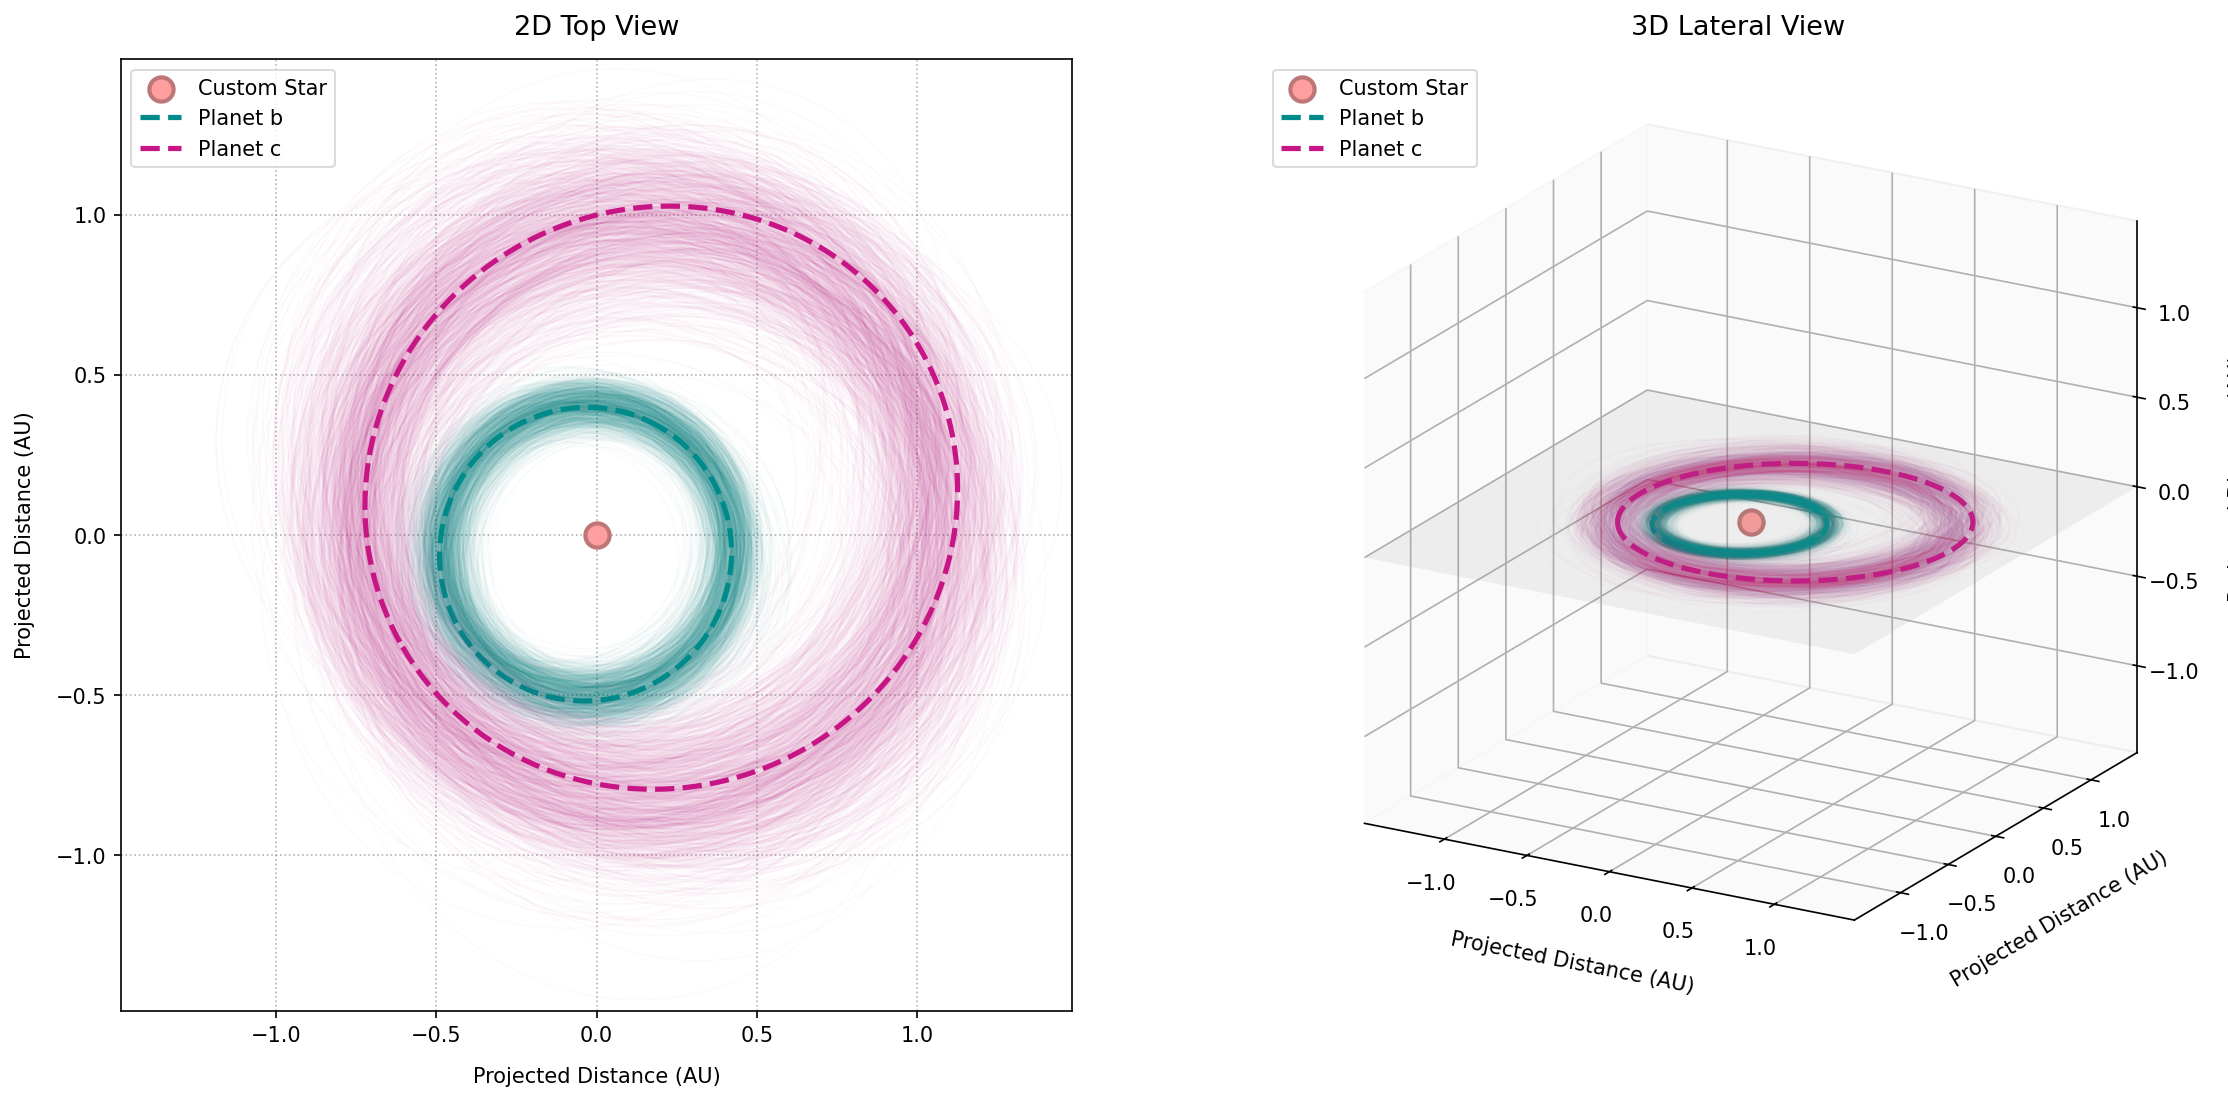
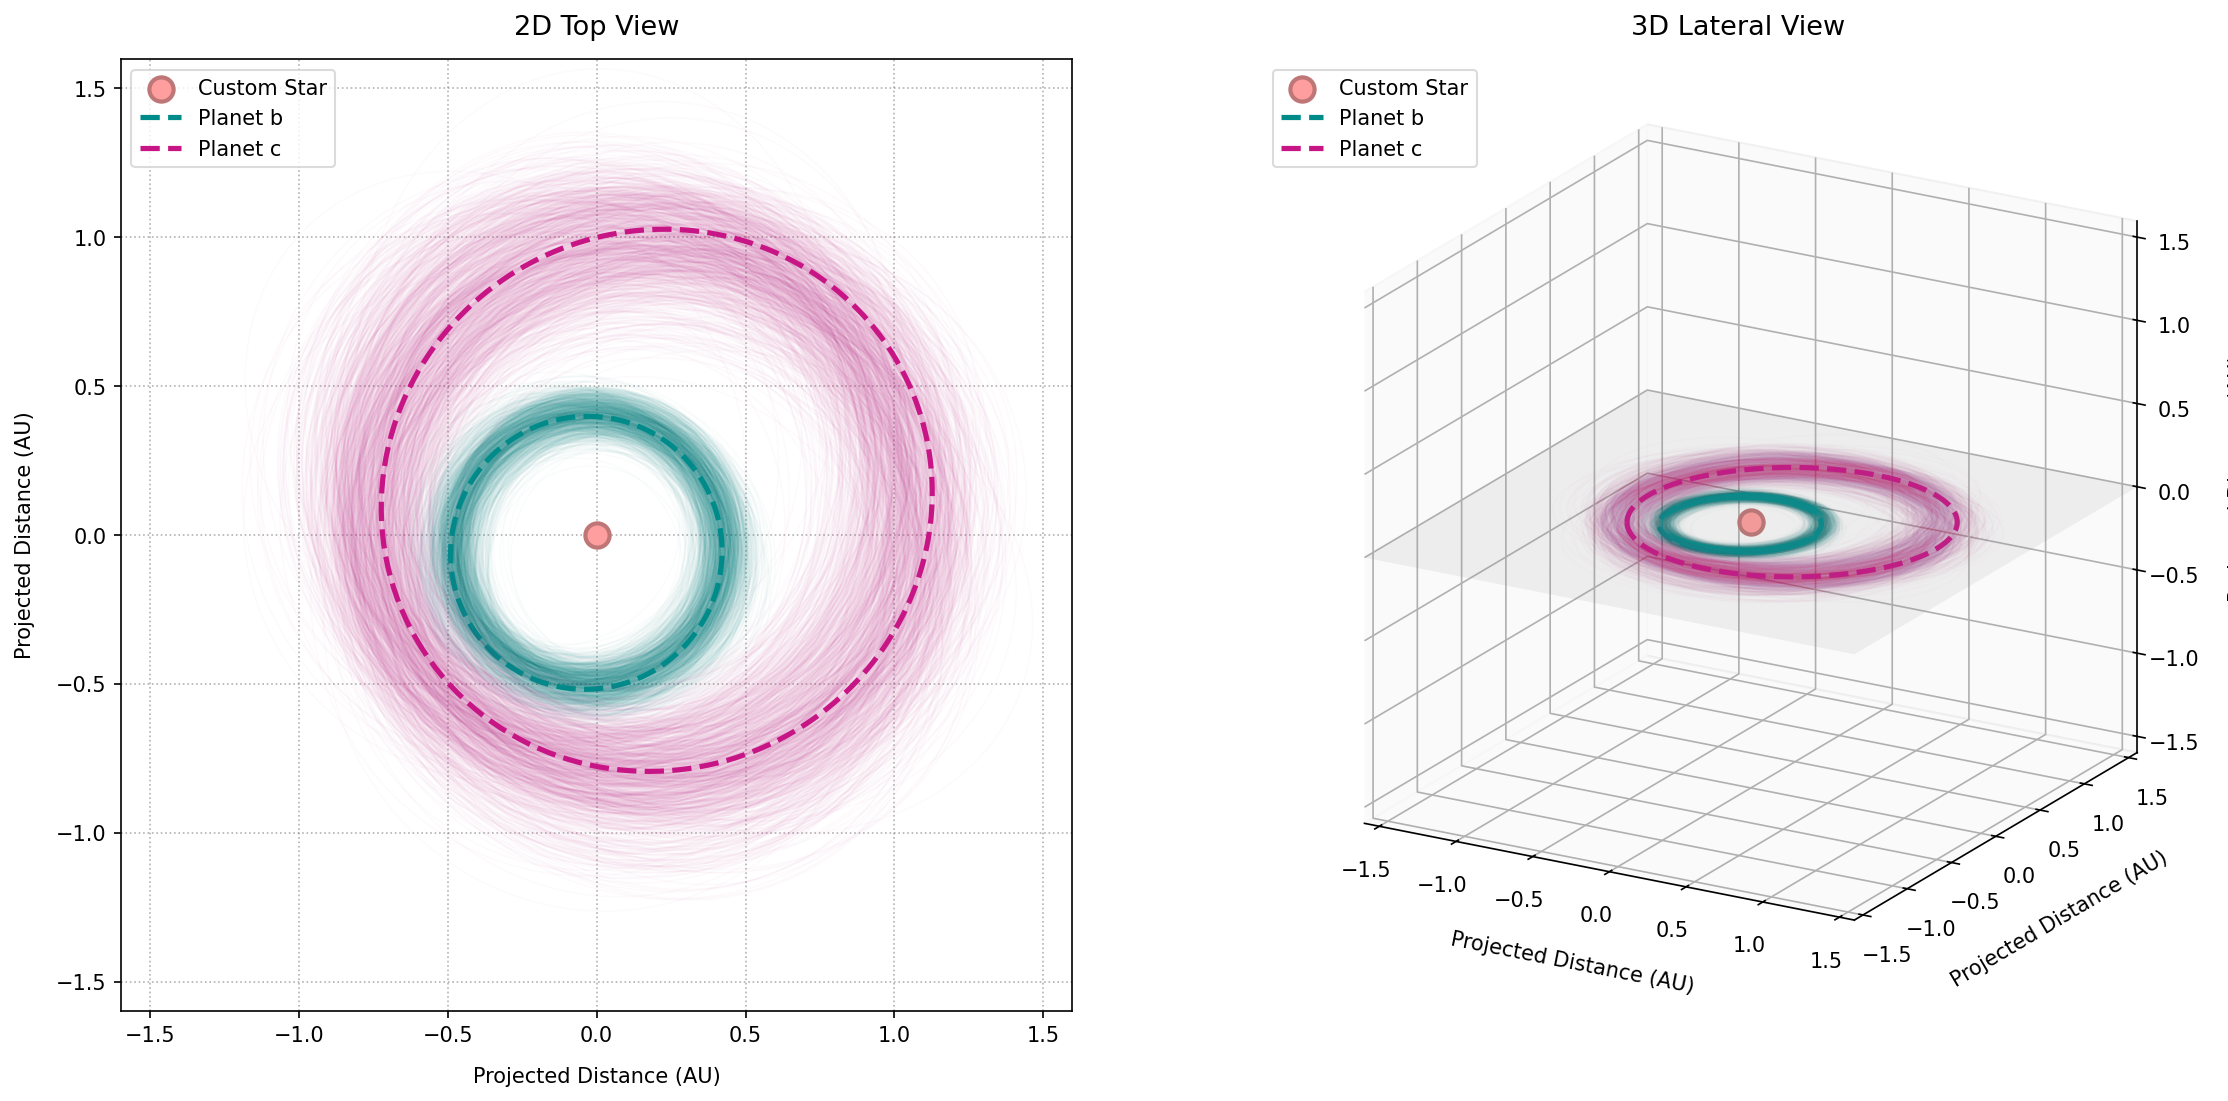
Changed the component z of the rotation transformation to be negative

diff --git a/src/orbcloud/math.py b/src/orbcloud/math.py
@@ -78,7 +78,7 @@ def kepler_to_cartesian(
     y = x_orb * (cos_omega * sin_Omega + sin_omega * cos_Omega * cos_i) - \
         y_orb * (sin_omega * sin_Omega - cos_omega * cos_Omega * cos_i)
         
-    z = x_orb * (sin_omega * sin_i) + \
+    z = - x_orb * (sin_omega * sin_i) - \
         y_orb * (cos_omega * sin_i)
         
     # Stack x, y, z into a single (N_samples, N_points, 3) matrix